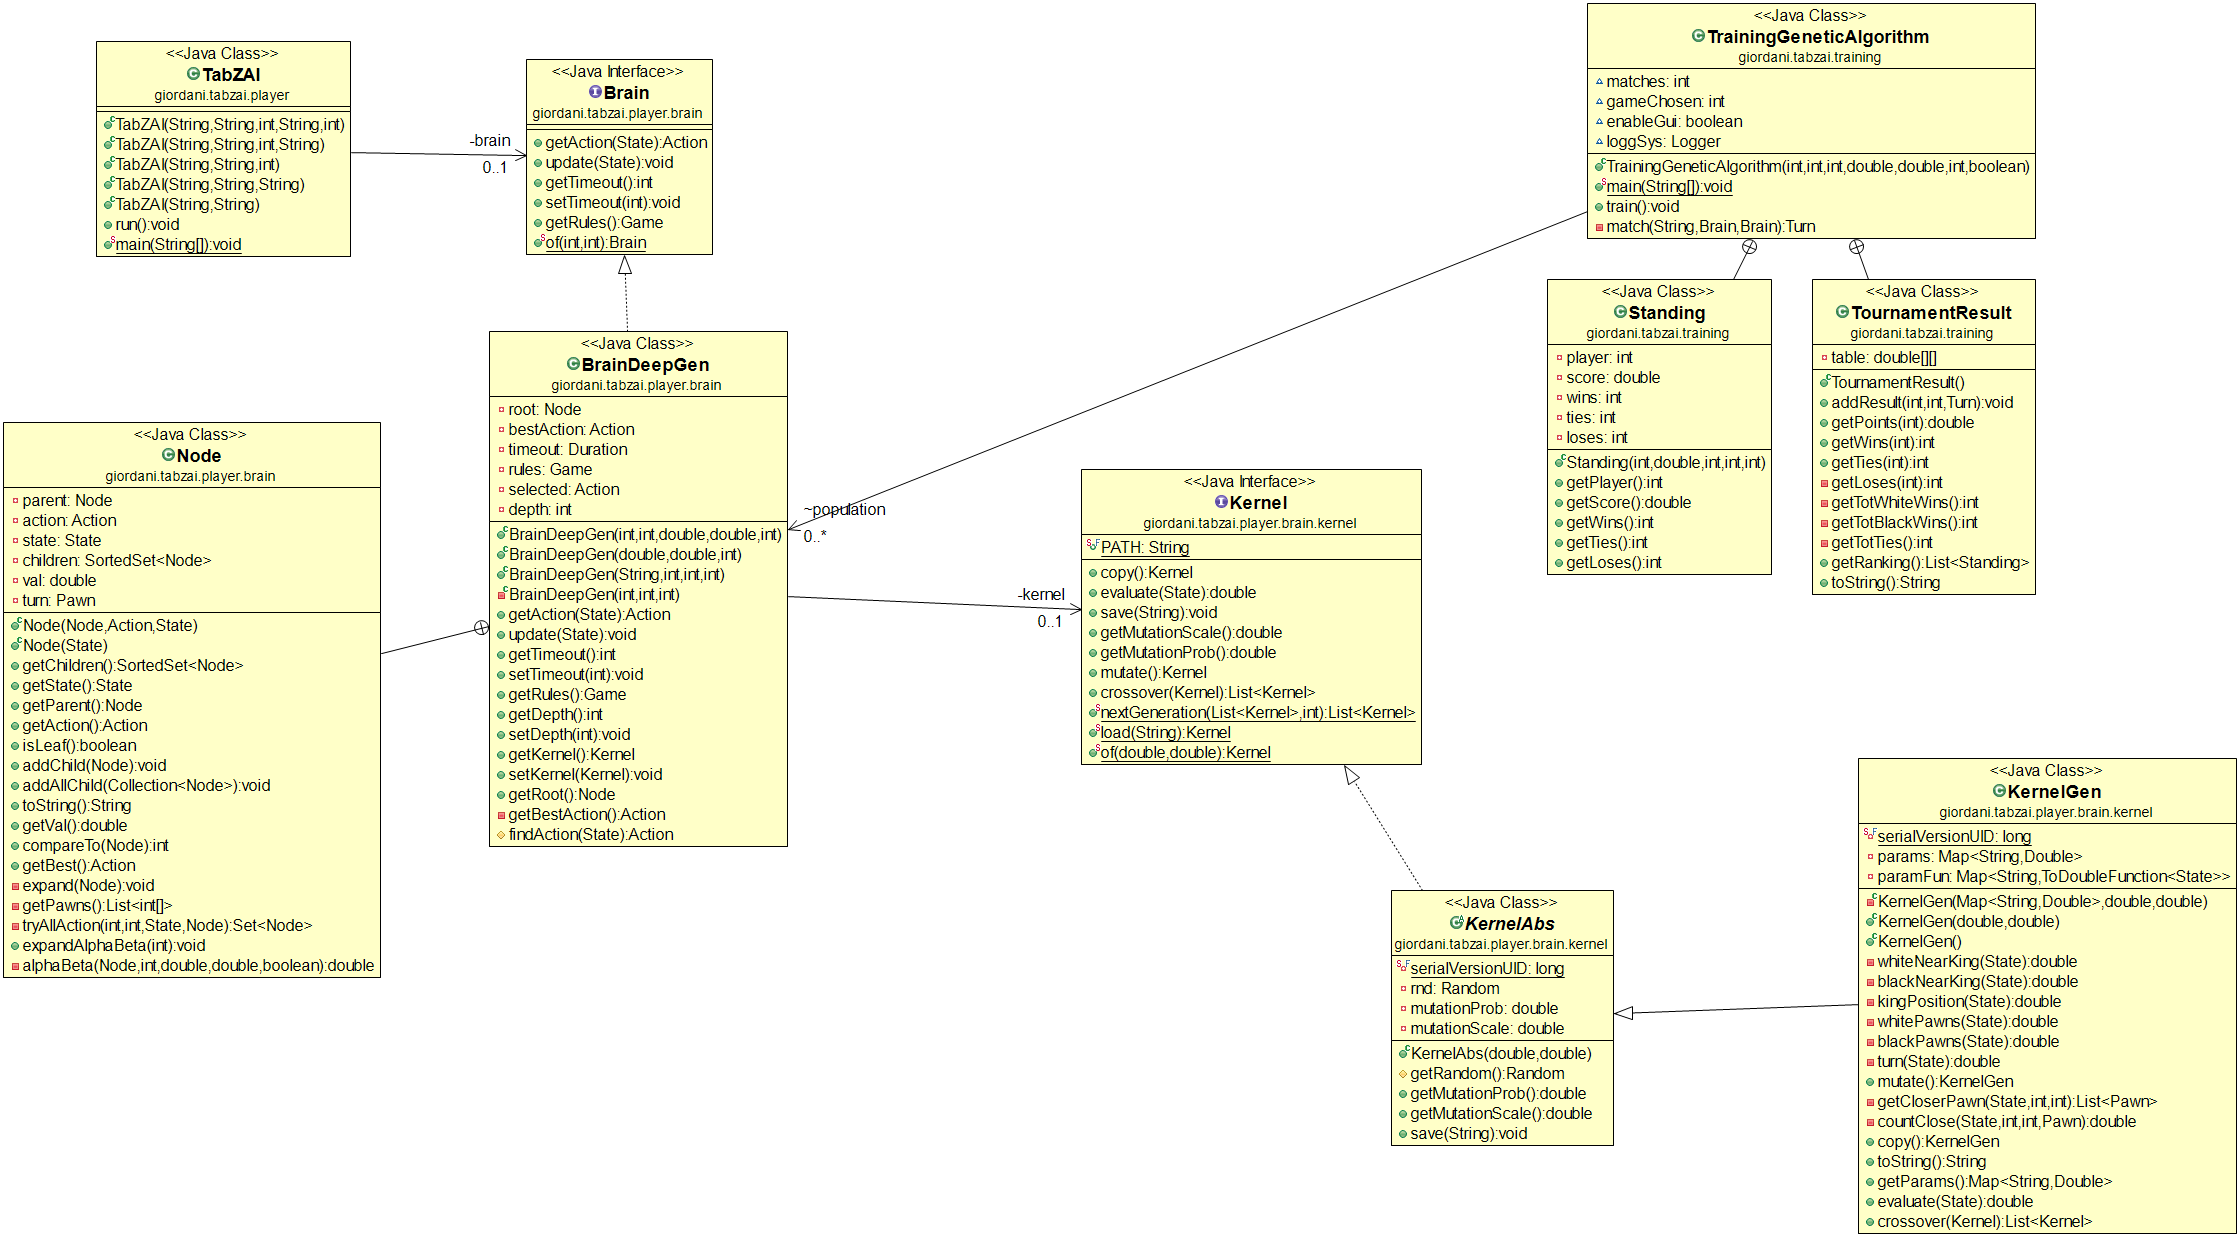
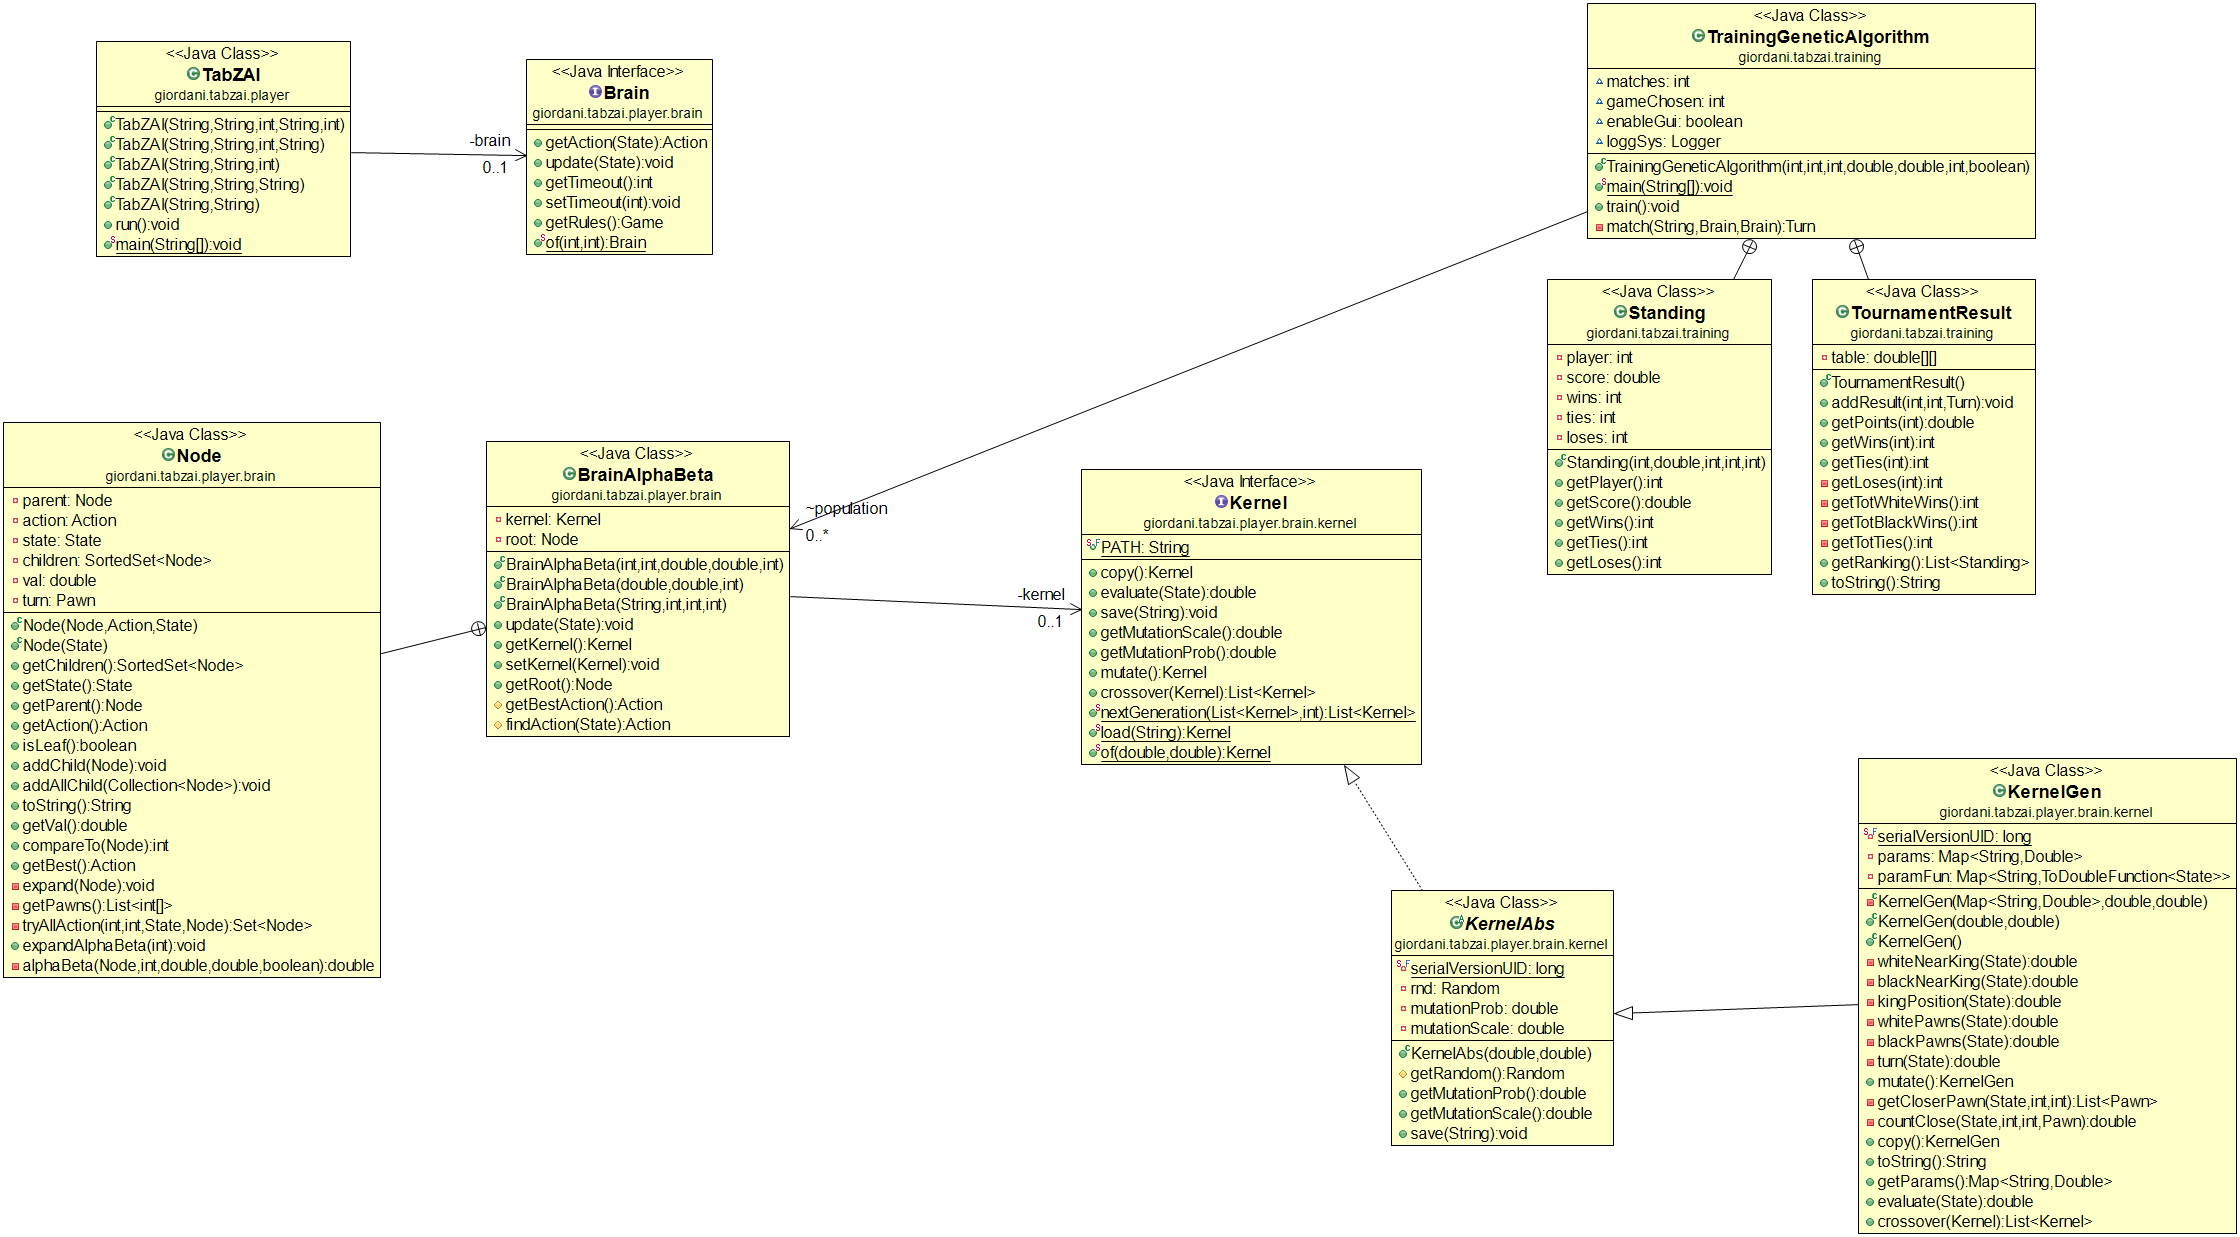
name changed

Changed region(s): [[0.1875, 0.2458, 0.4062, 0.7065]]

diff --git a/Tablut/src/giordani/tabzai/player/brain/BrainAlphaBeta.java b/Tablut/src/giordani/tabzai/player/brain/BrainAlphaBeta.java
@@ -33,65 +33,27 @@ import it.unibo.ai.didattica.competition.tablut.exceptions.PawnException;
 import it.unibo.ai.didattica.competition.tablut.exceptions.StopException;
 import it.unibo.ai.didattica.competition.tablut.exceptions.ThroneException;
 
-public class BrainDeepGen implements Brain {
+public class BrainAlphaBeta extends BrainAbs {
 
 	private Kernel kernel;
 	private Node root;
-	private Action bestAction;
-	private Duration timeout;
-	private Game rules;
-	private Action selected;
-	private int depth;
 
-	public BrainDeepGen(int timeout, int gametype, double mutationProb, double mutationScale, int depth) {
+	public BrainAlphaBeta(int timeout, int gametype, double mutationProb, double mutationScale, int depth) {
 		// Constructor for training phase
-		this(timeout, gametype, depth);
+		super(timeout, gametype, depth);
 		this.kernel = Kernel.of(mutationProb, mutationScale);
+		this.root = new Node(new StateTablut());
 	}
 
-	public BrainDeepGen(double mutationProb, double mutationScale, int depth) {
+	public BrainAlphaBeta(double mutationProb, double mutationScale, int depth) {
 		this(60, 1, mutationProb, mutationScale, depth);
 	}
 	
-	public BrainDeepGen(String name, int timeout, int gametype, int depth) {
+	public BrainAlphaBeta(String name, int timeout, int gametype, int depth) {
 		// The constructor for the runtime player
-		this(timeout, gametype, depth);
+		super(timeout, gametype, depth);
 		this.kernel = Kernel.load(name);
-	}
-	
-	private BrainDeepGen(int timeout, int gametype, int depth) {
-		State state = null;
-		this.depth = depth;
-		this.timeout = Duration.ofSeconds(timeout-1);
-		switch (gametype) {
-		case 1:
-			rules = new GameAshtonTablutNoLog(0, 0);
-			state = new StateTablut();
-			break;
-		case 2:
-			rules = new GameModernTablut();
-			state = new StateTablut();
-			break;
-		case 3:
-			rules = new GameTablut();
-			state = new StateTablut();
-			break;
-		case 4:
-			rules = new GameAshtonTablutNoLog(0, 0);
-			state = new StateTablut();
-			break;
-			
-		default:
-			System.out.println("Error in game selection");
-			System.exit(4);
-		}
-		this.root = new Node(state);
-	}
-	
-	@Override
-	public Action getAction(State state) {
-		selected = findAction(state);
-		return this.selected;
+		this.root = new Node(new StateTablut());
 	}
 	
 	@Override
@@ -105,21 +67,14 @@ public class BrainDeepGen implements Brain {
 		this.root = new Node(state);
 	}
 	
-	@Override
-	public int getTimeout() { return (int) timeout.toSeconds();}
-	@Override
-	public void setTimeout(int timeout) { this.timeout = Duration.ofSeconds(timeout-1);}
-	@Override
-	public Game getRules() { return rules;}
-	
-	public int getDepth() { return this.depth;}
-	public void setDepth(int depth) { this.depth = depth;}
 	public Kernel getKernel() { return kernel;}
 	public void setKernel(Kernel kernel) { this.kernel = kernel;}
 	public Node getRoot() { return this.root;}
 	
-	private Action getBestAction() { return this.bestAction;}
-
+	@Override
+	protected Action getBestAction() { return root.getBest();}
+	
+	@Override
 	protected Action findAction(State state) {
 		update(state);
 		

diff --git a/Tablut/src/giordani/tabzai/player/brain/BrainAbs.java b/Tablut/src/giordani/tabzai/player/brain/BrainAbs.java
@@ -1,0 +1,61 @@
+package giordani.tabzai.player.brain;
+
+import java.time.Duration;
+
+import giordani.tabzai.training.GameAshtonTablutNoLog;
+import it.unibo.ai.didattica.competition.tablut.domain.Action;
+import it.unibo.ai.didattica.competition.tablut.domain.Game;
+import it.unibo.ai.didattica.competition.tablut.domain.GameModernTablut;
+import it.unibo.ai.didattica.competition.tablut.domain.GameTablut;
+import it.unibo.ai.didattica.competition.tablut.domain.State;
+
+public abstract class BrainAbs implements Brain {
+	private Duration timeout;
+	private Game rules;
+	private Action selected;
+	private int depth;
+	
+	public BrainAbs(int timeout, int gametype, int depth) {
+		this.depth = depth;
+		this.timeout = Duration.ofSeconds(timeout-1);
+		switch (gametype) {
+		case 1:
+			rules = new GameAshtonTablutNoLog(0, 0);
+			break;
+		case 2:
+			rules = new GameModernTablut();
+			break;
+		case 3:
+			rules = new GameTablut();
+			break;
+		case 4:
+			rules = new GameAshtonTablutNoLog(0, 0);
+			break;
+			
+		default:
+			System.out.println("Error in game selection");
+			System.exit(4);
+		}
+		
+	}
+	
+	protected abstract Action findAction(State state);
+	protected abstract Action getBestAction();
+
+	@Override
+	public Action getAction(State state) {
+		selected = findAction(state);
+		return this.selected;
+	}
+
+	@Override
+	public int getTimeout() { return (int) timeout.toSeconds();}
+	@Override
+	public void setTimeout(int timeout) { this.timeout = Duration.ofSeconds(timeout-1);}
+	@Override
+	public Game getRules() { return rules;}
+	
+	public int getDepth() { return this.depth;}
+	public void setDepth(int depth) { this.depth = depth;}
+
+}

diff --git a/Tablut/src/giordani/tabzai/training/TrainingGeneticAlgorithm.java b/Tablut/src/giordani/tabzai/training/TrainingGeneticAlgorithm.java
@@ -22,7 +22,7 @@ import org.apache.commons.cli.Options;
 import org.apache.commons.cli.ParseException;
 
 import giordani.tabzai.player.brain.Brain;
-import giordani.tabzai.player.brain.BrainDeepGen;
+import giordani.tabzai.player.brain.BrainAlphaBeta;
 import giordani.tabzai.player.brain.kernel.Kernel;
 import it.unibo.ai.didattica.competition.tablut.domain.Action;
 import it.unibo.ai.didattica.competition.tablut.domain.Game;
@@ -45,7 +45,7 @@ import it.unibo.ai.didattica.competition.tablut.exceptions.ThroneException;
 import it.unibo.ai.didattica.competition.tablut.domain.StateBrandub;
 
 public class TrainingGeneticAlgorithm {
-	List<BrainDeepGen> population;
+	List<BrainAlphaBeta> population;
 	int matches;
 	int gameChosen;
 	boolean enableGui;
@@ -55,7 +55,7 @@ public class TrainingGeneticAlgorithm {
 		this.enableGui = enableGui;
 		this.population = new ArrayList<>();
 		while(this.population.size()<population)
-			this.population.add(new BrainDeepGen(mutationProb, mutationScale, depth));
+			this.population.add(new BrainAlphaBeta(mutationProb, mutationScale, depth));
 		this.matches = matches;
 		this.gameChosen = gameChosen;
 		

diff --git a/Tablut/src/giordani/tabzai/player/brain/Brain.java b/Tablut/src/giordani/tabzai/player/brain/Brain.java
@@ -13,8 +13,7 @@ public interface Brain {
 	public Game getRules();
 	
 	public static Brain of(int timeout, int gametype) {
-		// TODO Auto-generated method stub
-		return null;
+		return new BrainAlphaBeta(timeout, gametype, 5);
 	}
 
 }
